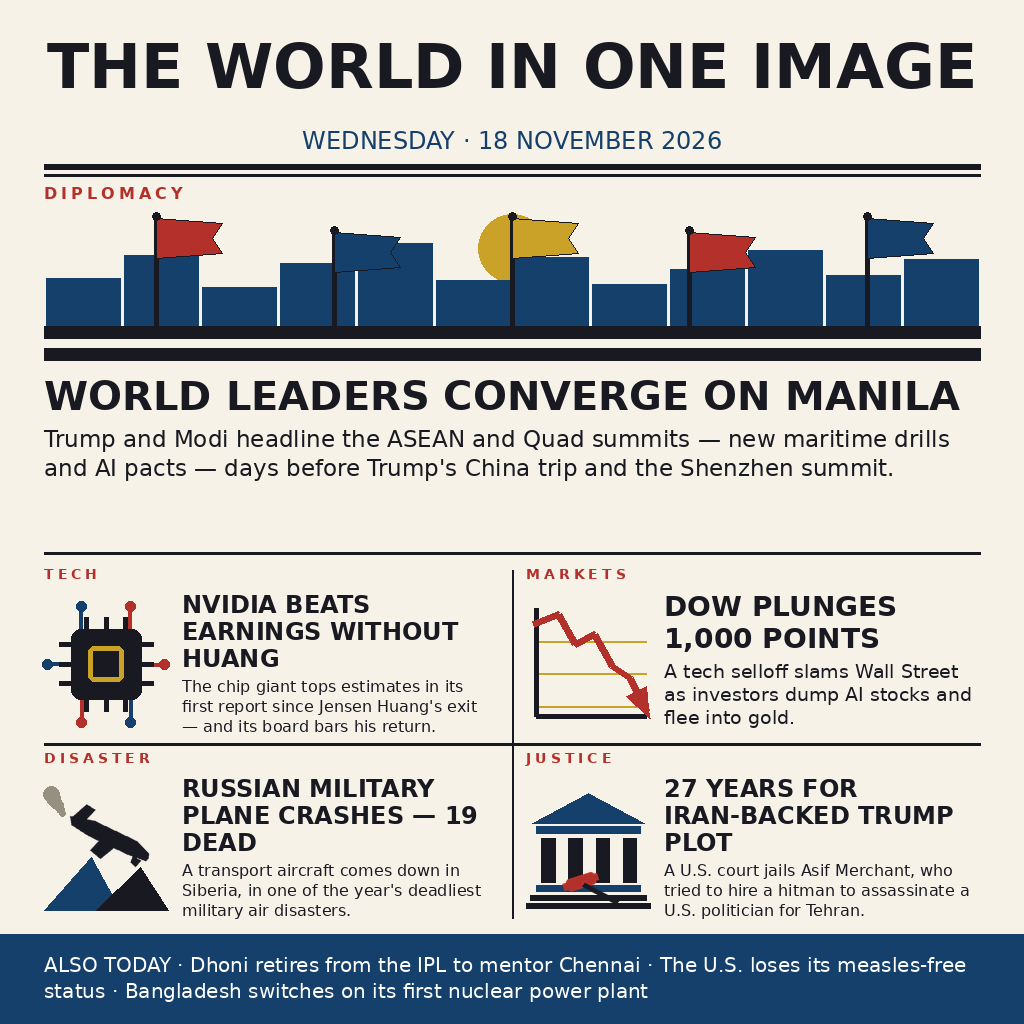
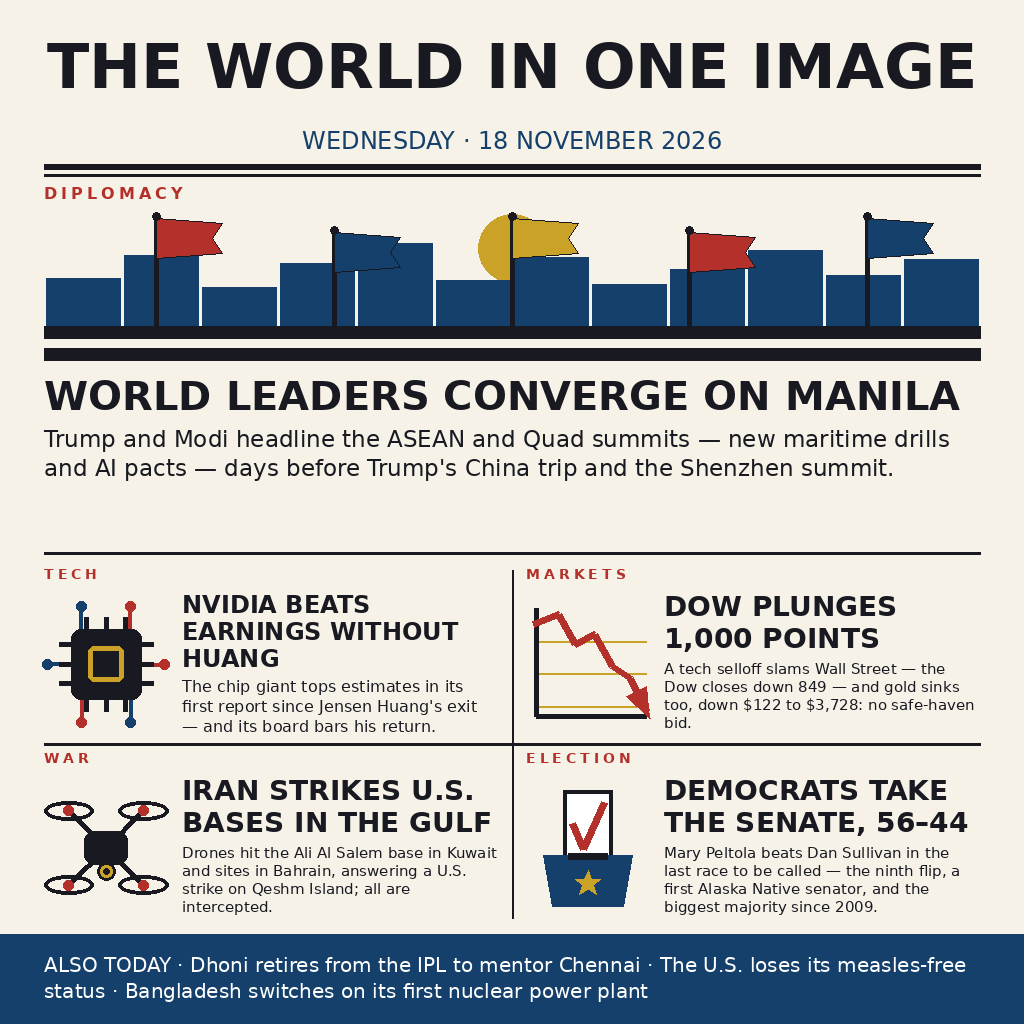
Revise poster: Alaska flip, Iran strikes, gold line fix

Changed region(s): [[0.5, 0.7188, 0.9688, 0.9062], [0.0312, 0.7188, 0.4688, 0.9062], [0.625, 0.625, 0.9688, 0.7188]]

diff --git a/build_image.py b/build_image.py
@@ -284,6 +284,59 @@ def pic_justice(d, x, y, s):
     d._image.paste(layer, (int(x + s * 0.28), int(y + s * 0.58)), layer)
 
 
+def pic_drone(d, x, y, s):
+    """Quadcopter drone: X-frame arms, four rotor discs, camera eye."""
+    cx, cy = x + s / 2, y + s / 2
+    hubs = [(x + s * 0.20, y + s * 0.20), (x + s * 0.80, y + s * 0.20),
+            (x + s * 0.20, y + s * 0.80), (x + s * 0.80, y + s * 0.80)]
+    # arms
+    for hx, hy in hubs:
+        d.line([cx, cy, hx, hy], fill=INK, width=6)
+    # rotor discs (blurred blades) with red hubs
+    rw, rh = s * 0.20, s * 0.075
+    for hx, hy in hubs:
+        d.ellipse([hx - rw, hy - rh, hx + rw, hy + rh], outline=INK, width=4)
+        d.ellipse([hx - 5, hy - 5, hx + 5, hy + 5], fill=RED)
+    # body
+    bw, bh = s * 0.34, s * 0.26
+    d.rounded_rectangle([cx - bw / 2, cy - bh / 2, cx + bw / 2, cy + bh / 2],
+                        radius=10, fill=INK)
+    # camera eye slung underneath
+    d.ellipse([cx - 9, cy + bh / 2 - 2, cx + 9, cy + bh / 2 + 16], fill=GOLD,
+              outline=INK, width=3)
+    d.ellipse([cx - 3, cy + bh / 2 + 4, cx + 3, cy + bh / 2 + 10], fill=INK)
+
+
+def pic_ballot(d, x, y, s):
+    """Ballot paper with a bold check sliding into a ballot box."""
+    import math
+    box_top = y + s * 0.56
+    # ballot paper first (the box overlaps its foot, so it reads as inserted)
+    px0, py0 = x + s * 0.30, y + s * 0.04
+    px1, py1 = x + s * 0.70, box_top + 6
+    d.rectangle([px0, py0, px1, py1], fill=WHITE, outline=INK, width=4)
+    # bold red check on the paper
+    d.line([px0 + 9, py0 + (py1 - py0) * 0.46, px0 + (px1 - px0) * 0.40,
+            py1 - 12], fill=RED, width=7)
+    d.line([px0 + (px1 - px0) * 0.40, py1 - 12, px1 - 8, py0 + 12],
+           fill=RED, width=7)
+    # ballot box body
+    d.polygon([(x + s * 0.14, box_top), (x + s * 0.86, box_top),
+               (x + s * 0.79, y + s * 0.97), (x + s * 0.21, y + s * 0.97)],
+              fill=NAVY)
+    # slot lip across the paper's foot
+    d.rectangle([x + s * 0.34, box_top - 2, x + s * 0.66, box_top + 4],
+                fill=INK)
+    # gold star on the box front
+    scx, scy, r_out, r_in = x + s * 0.5, y + s * 0.79, s * 0.11, s * 0.045
+    star = []
+    for i in range(10):
+        r = r_out if i % 2 == 0 else r_in
+        a = -math.pi / 2 + i * math.pi / 5
+        star.append((scx + r * math.cos(a), scy + r * math.sin(a)))
+    d.polygon(star, fill=GOLD)
+
+
 # ----------------------------------------------------------------- layout ----
 def main():
     img = Image.new("RGB", (W, H), PAPER)
@@ -347,16 +400,17 @@ def main():
          "Huang's exit — and its board bars his return."),
         ("MARKETS", pic_chart,
          "DOW PLUNGES 1,000 POINTS",
-         "A tech selloff slams Wall Street as investors dump AI stocks and "
-         "flee into gold."),
-        ("DISASTER", pic_plane,
-         "RUSSIAN MILITARY PLANE CRASHES — 19 DEAD",
-         "A transport aircraft comes down in Siberia, in one of the year's "
-         "deadliest military air disasters."),
-        ("JUSTICE", pic_justice,
-         "27 YEARS FOR IRAN-BACKED TRUMP PLOT",
-         "A U.S. court jails Asif Merchant, who tried to hire a hitman to "
-         "assassinate a U.S. politician for Tehran."),
+         "A tech selloff slams Wall Street — the Dow closes down 849 — and "
+         "gold sinks too, down $122 to $3,728: no safe-haven bid."),
+        ("WAR", pic_drone,
+         "IRAN STRIKES U.S. BASES IN THE GULF",
+         "Drones hit the Ali Al Salem base in Kuwait and sites in Bahrain, "
+         "answering a U.S. strike on Qeshm Island; all are intercepted."),
+        ("ELECTION", pic_ballot,
+         "DEMOCRATS TAKE THE SENATE, 56–44",
+         "Mary Peltola beats Dan Sullivan in the last race to be called — "
+         "the ninth flip, a first Alaska Native senator, and the biggest "
+         "majority since 2009."),
     ]
 
     for idx, (kicker, pic, headline, caption) in enumerate(panels):
